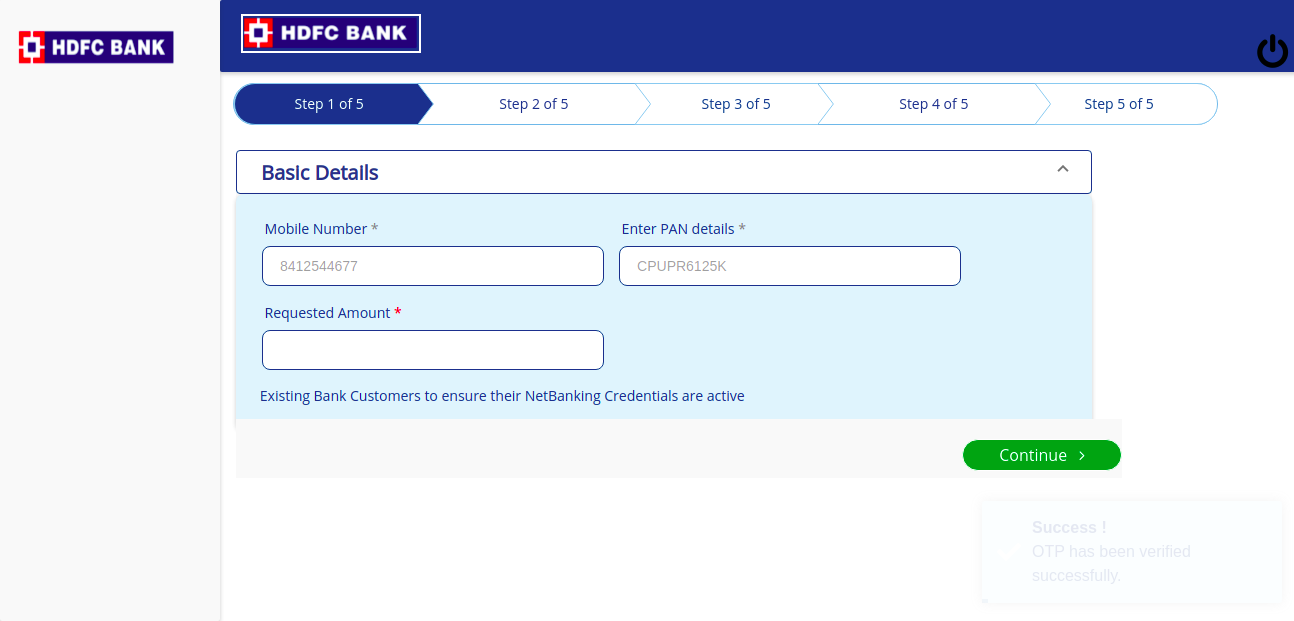
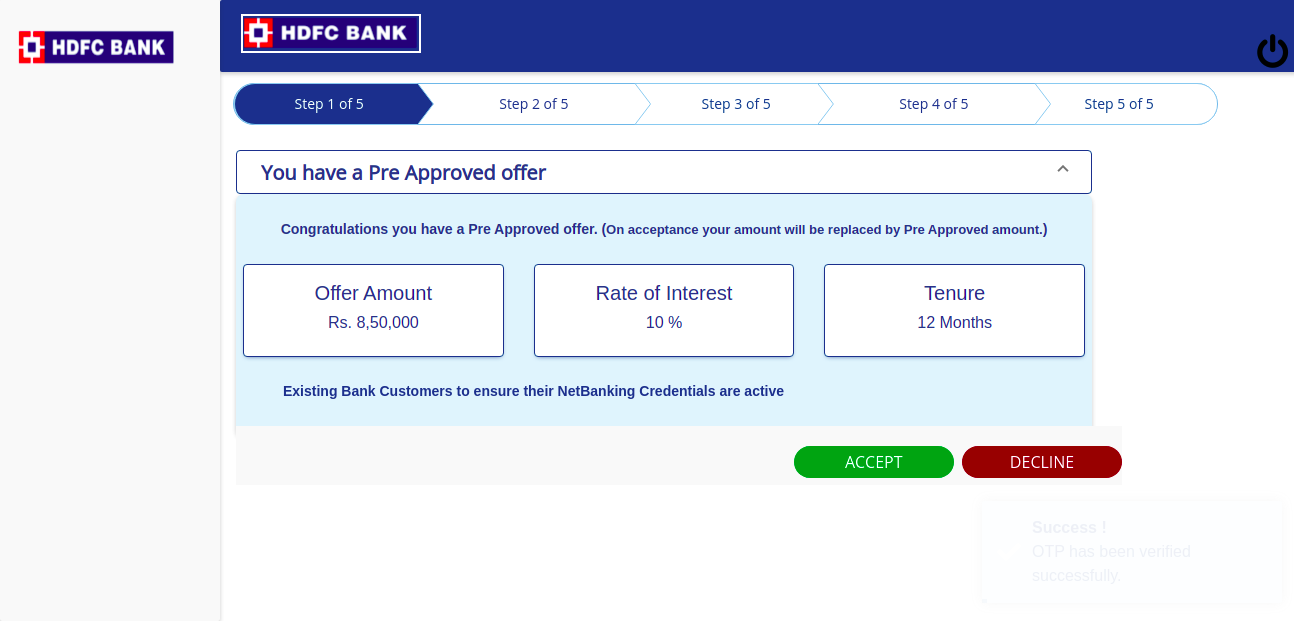
Offer page elements and methods added, new test case added for aoffer page.

Changed region(s): [[0.1855, 0.3366, 0.8655, 0.6425], [0.1855, 0.6731, 0.8655, 0.7955], [0.1855, 0.2448, 0.4328, 0.306]]

diff --git a/src/test/java/SmokeTest.java b/src/test/java/SmokeTest.java
@@ -1,4 +1,6 @@
+import Base_utility.Comman;
 import Page_Utility.LandingPage;
+import Page_Utility.OfferPage;
 import Page_Utility.SourcingPage;
 import org.apache.commons.io.FileUtils;
 import org.apache.commons.io.filefilter.FileFilterUtils;
@@ -19,6 +21,7 @@ public class SmokeTest
 {
     LandingPage lp= new LandingPage(driver);
     SourcingPage sp= new SourcingPage(driver);
+    OfferPage op = new OfferPage(driver);
 
     @BeforeTest()
     public void BforeTest()
@@ -29,21 +32,22 @@ public class SmokeTest
 
         PageFactory.initElements(driver,lp);
         PageFactory.initElements(driver,sp);
+        PageFactory.initElements(driver,op);
     }
 
     @AfterTest
     public void AfterTest()
     {lp.Quit();}
 
-    @Test
-    public void loginSu(Method method) throws IOException {
-
+    @Test(priority = 0)
+    public void loginSu(Method method) throws IOException
+    {
         lp.LoadURL("https://ssgqa.serviceurl.in/eSign/");
 
         Assert.assertEquals("E-Sign",driver.getTitle());
 
-        lp.EnterMobileNum("8412544677");
-        lp.EnterPanNum("CPUPR6125K");
+        lp.EnterMobileNum("9948064929");
+        lp.EnterPanNum("AAAPM3484F");
         lp.ClickCheckBox();
         lp.ClickReadMore();
         lp.ClickReadLess();
@@ -51,11 +55,21 @@ public class SmokeTest
         lp.EnterOtp("123456");
         lp.ClickSubmitOtp();
 
-        sp.expwait(sp.Header, 30);
-
+        lp.expwait(op.OfferPageHeader, 30);
         FileUtils.deleteQuietly(new File("/home/lentraadmin/IdeaProjects/HDFCPA/ScreenShots"));
-
         lp.TakeScreenShot("/home/lentraadmin/IdeaProjects/HDFCPA/ScreenShots/",method.getName());
     }
+
+    @Test(priority = 1)
+    public void OfferPageTest(Method method) throws IOException
+    {
+        Assert.assertTrue(op.OfferPageHeader.isDisplayed());
+        Assert.assertTrue(op.OfferAmount.isDisplayed());
+        Assert.assertTrue(op.ROI.isDisplayed());
+        Assert.assertTrue(op.Tenure.isDisplayed());
+        op.TakeScreenShot("/home/lentraadmin/IdeaProjects/HDFCPA/ScreenShots/","AllOfferPageelements");
+        op.ClickOnAccept();
+    }
+
 
 }

diff --git a/src/main/java/Page_Utility/OfferPage.java b/src/main/java/Page_Utility/OfferPage.java
@@ -1,0 +1,47 @@
+package Page_Utility;
+
+import Base_utility.Comman;
+import org.openqa.selenium.WebDriver;
+import org.openqa.selenium.WebElement;
+import org.openqa.selenium.support.FindBy;
+import org.openqa.selenium.support.PageFactory;
+
+public class OfferPage extends Comman
+{
+    public OfferPage (WebDriver driver)
+    {
+        this.driver= driver;
+        PageFactory.initElements(driver,this);
+    }
+
+    Comman comman = new Comman();
+
+    @FindBy(xpath = "//span/mat-panel-title")
+    public WebElement OfferPageHeader;
+
+    @FindBy(xpath ="//div/h6[contains(text(),'Rs.')]")
+    public WebElement OfferAmount;
+
+    @FindBy(xpath = "//div/h6[contains(text(),'%')]")
+    public WebElement ROI;
+
+    @FindBy(xpath = "//div/h6[contains(text(),'Month')]")
+    public WebElement Tenure;
+
+    @FindBy(xpath ="//span[contains(text(),'ACCEPT')]")
+    public WebElement AcceptButton;
+
+    @FindBy(xpath ="//span[contains(text(),'DECLINE')]")
+    public WebElement DeclineButton;
+
+    public void ClickOnAccept()
+    {
+        comman.ClickOn(AcceptButton);
+    }
+
+    public void ClickOnDecline()
+    {
+        comman.ClickOn(DeclineButton);
+    }
+
+}

diff --git a/src/main/java/Page_Utility/SourcingPage.java b/src/main/java/Page_Utility/SourcingPage.java
@@ -21,10 +21,10 @@ public class SourcingPage extends Comman
     @FindBy(xpath = "//input[@id='mat-input-0']")
     public WebElement MobileNo;
 
-    @FindBy(xpath = "//input[@id='mat-input-1")
+    @FindBy(xpath = "//input[@id='mat-input-1']")
     public WebElement PanNo;
 
-    @FindBy(xpath = "//input[@id='mat-input-2")
+    @FindBy(xpath = "//input[@id='mat-input-2']")
     public WebElement RequestedAmount;
 
     @FindBy(xpath = "//span[text()='Continue']")
@@ -34,7 +34,7 @@ public class SourcingPage extends Comman
     public WebElement Logout;
 
 
-    public void ClickOnRequestedAmount(String value)
+    public void EnterRequestedAmount(String value)
     {
         comman.EnterValue(RequestedAmount,value);
     }

diff --git a/src/main/java/Base_utility/Comman.java b/src/main/java/Base_utility/Comman.java
@@ -101,7 +101,4 @@ public class Comman {
         js.executeScript("argument[0].srollIntoView(true), Element");
     }
 
-
-
-
 }

diff --git a/src/main/java/Page_Utility/Demog1Page.java b/src/main/java/Page_Utility/Demog1Page.java
@@ -1,0 +1,6 @@
+package Page_Utility;
+
+public class Demog1Page
+{
+
+}
